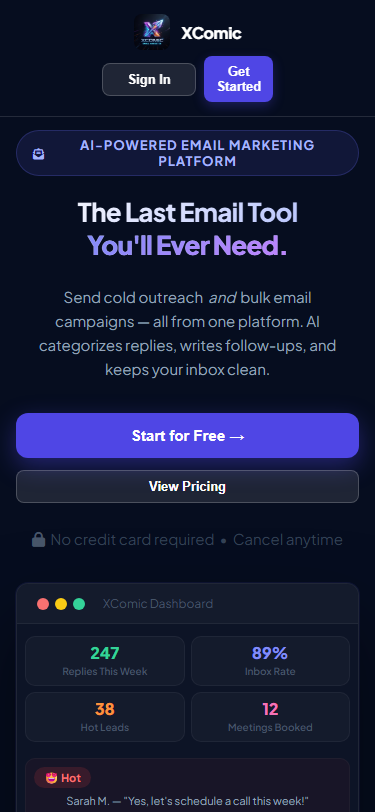
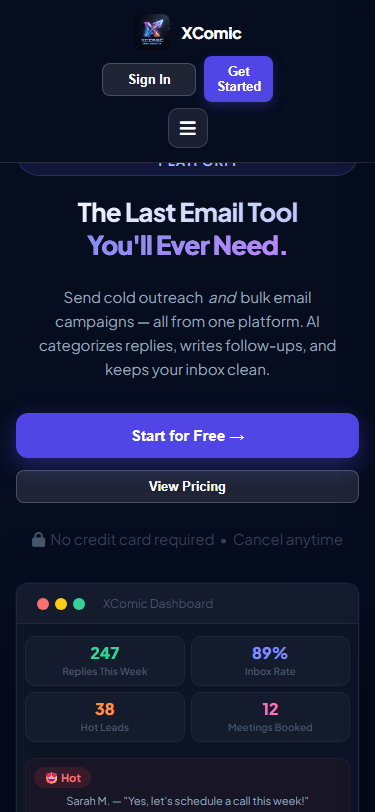
Fix landing mobile nav topbar alignment with clean hamburger toggle on right side

diff --git a/xcomic.xyz/assets/style.css b/xcomic.xyz/assets/style.css
@@ -1074,20 +1074,23 @@ html, body, #landing-page, #app-page {
 /* 2. Responsive Landing Hero, Bento Grid & Typography */
 @media (max-width: 900px) {
     .landing-nav {
-        padding: 14px 20px !important;
+        padding: 12px 16px !important;
         background: #060d1f !important;
         backdrop-filter: none !important;
         -webkit-backdrop-filter: none !important;
         border-bottom: 1px solid rgba(255,255,255,0.12) !important;
+        display: flex !important;
+        align-items: center !important;
+        justify-content: space-between !important;
     }
     .landing-nav-links {
-        gap: 8px !important;
-    }
-    .landing-nav-links a {
         display: none !important;
     }
+    .landing-nav-toggle {
+        display: flex !important;
+    }
     .landing-hero {
-        padding: 130px 16px 40px !important;
+        padding: 100px 16px 40px !important;
     }
     .landing-hero h1 {
         font-size: 34px !important;

diff --git a/xcomic.xyz/index.html b/xcomic.xyz/index.html
@@ -54,7 +54,7 @@
 
 
 
-    <link rel="stylesheet" href="assets/style.css?v=20260809_v1900">
+    <link rel="stylesheet" href="assets/style.css?v=20260809_v2000">
 
 
 
